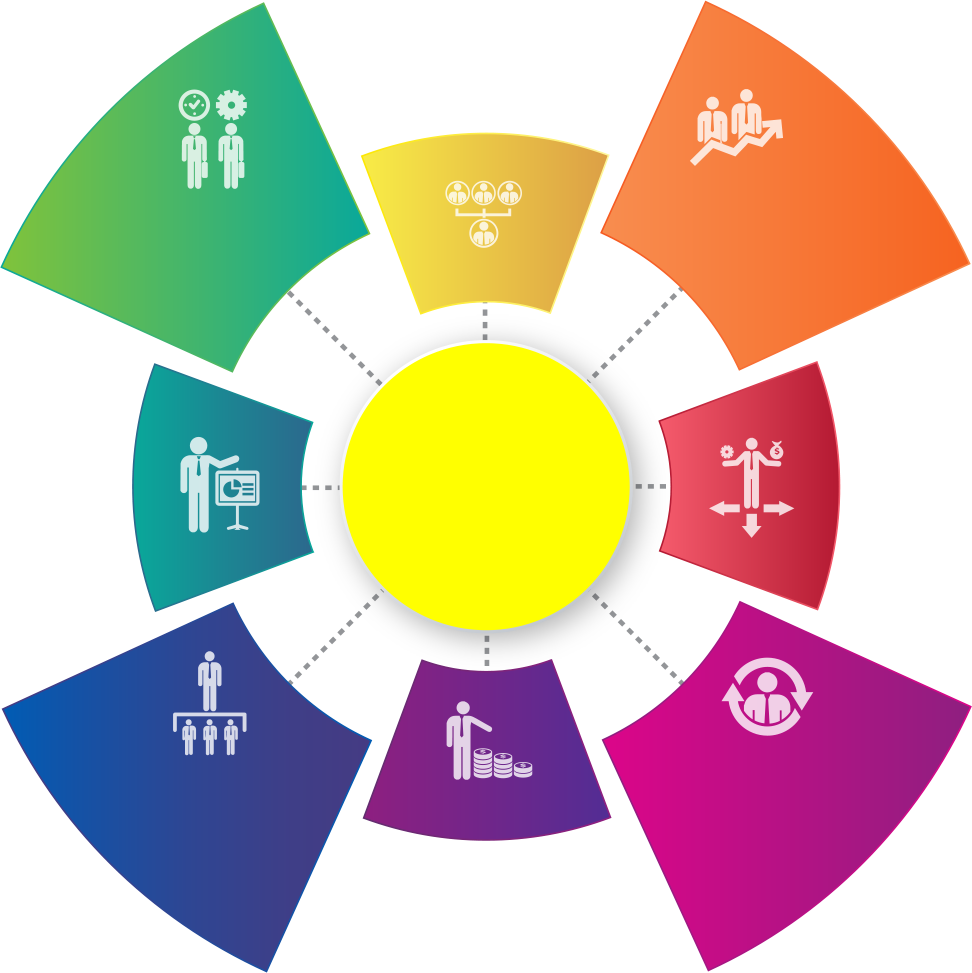
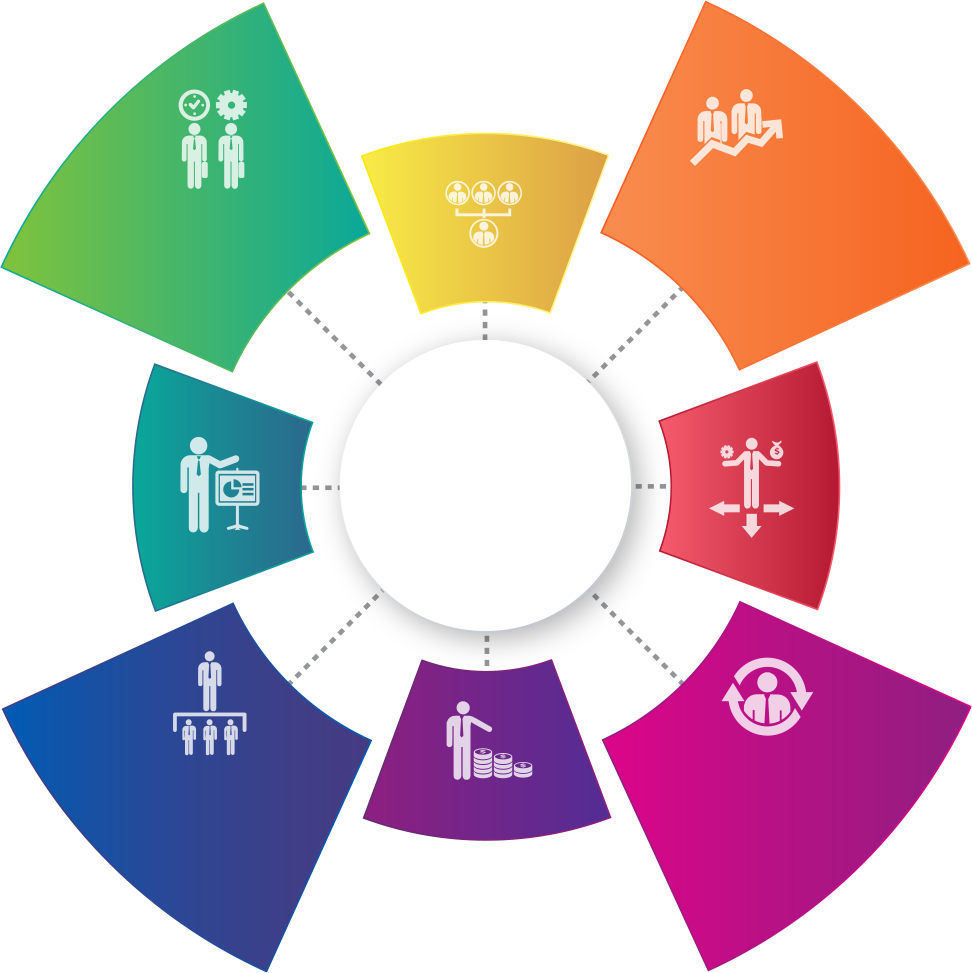
Add attribute-circle

Changed region(s): [[0.3395, 0.3392, 0.6481, 0.6475]]

diff --git a/src/sass/pages/index/_attribute.sass b/src/sass/pages/index/_attribute.sass
@@ -7,3 +7,22 @@
 
 	&__footer
 		text-align: center
+
+	&__circle
+
+		margin-bottom: 45px
+		+relative()
+
+		+min(md)
+			margin-bottom: 60px
+
+		+min(lg)
+			margin-bottom: 90px
+
+		&-image
+			+margin-x(auto)
+
+			+min(md)
+				+bg('../img/attribute-circle.png')
+			+min(lg)
+				+size(973px, 972px)
